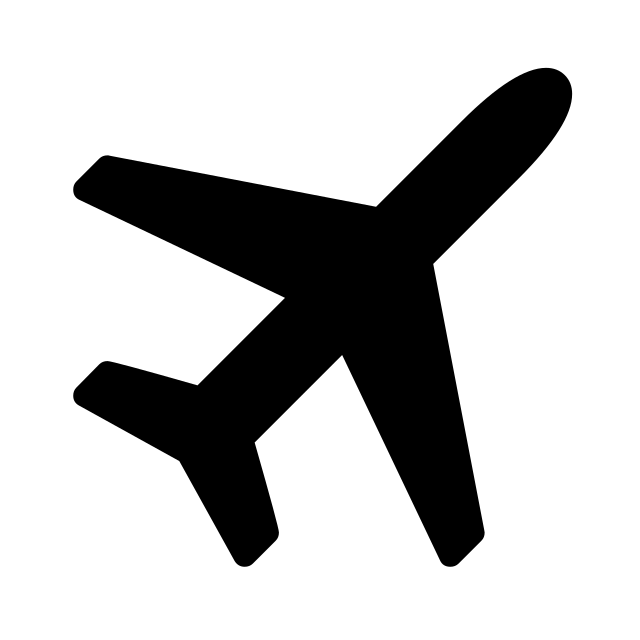
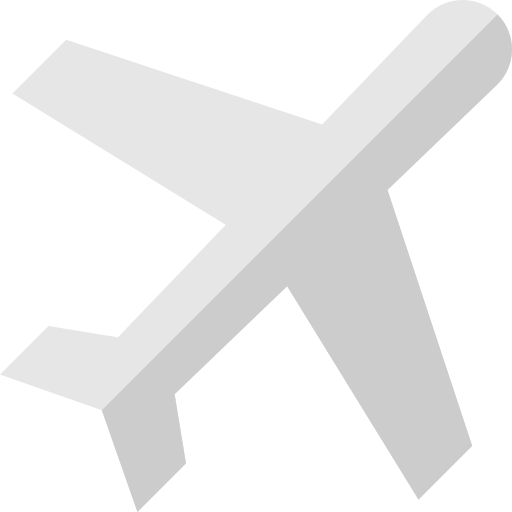
sprite managment

diff --git a/lib/pages/game/components/plane/plane.dart b/lib/pages/game/components/plane/plane.dart
@@ -3,10 +3,11 @@ import 'dart:math';
 import 'package:flame/components.dart';
 import 'package:flame/events.dart';
 import 'package:flutter/material.dart';
+import 'package:touch_dispatch/pages/game/components/plane/plane_sprite.dart';
 
 import '../map/point_entity.dart';
 
-class PlaneEntity extends SpriteComponent with DragCallbacks {
+class PlaneEntity extends PositionComponent with DragCallbacks {
   final double speed = 100;
   late TextComponent flightText;
   late TextComponent heightText;
@@ -17,7 +18,7 @@ class PlaneEntity extends SpriteComponent with DragCallbacks {
   Vector2 get direction => velocity.normalized();
 
   Vector2 dragDelta = Vector2.zero();
-  late Sprite planeSprite;
+  late PlaneSprite planeSprite;
   Vector2 targetPosition = Vector2.zero();
   Vector2 velocity = Vector2.zero();
 
@@ -76,6 +77,8 @@ class PlaneEntity extends SpriteComponent with DragCallbacks {
   Future<void> onLoad() async {
     await super.onLoad();
 
+    add(planeSprite); // Add sprite as a child
+
     size = Vector2(50, 50);
     targetPosition = position;
 
@@ -85,7 +88,7 @@ class PlaneEntity extends SpriteComponent with DragCallbacks {
     flightText = TextComponent(
       text: flightNumber,
       anchor: Anchor.center,
-      position: Vector2(size.x / 2, -20),
+      position: Vector2(0, -20),
       textRenderer: TextPaint(
         style: const TextStyle(
           color: Colors.white,
@@ -99,7 +102,7 @@ class PlaneEntity extends SpriteComponent with DragCallbacks {
     heightText = TextComponent(
       text: 'Height: ${height.toStringAsFixed(0)} ft',
       anchor: Anchor.center,
-      position: Vector2(size.x / 2, size.y + 10),
+      position: Vector2(0, 20),
       textRenderer: TextPaint(
         style: const TextStyle(
           color: Colors.white,
@@ -116,6 +119,7 @@ class PlaneEntity extends SpriteComponent with DragCallbacks {
   @override
   void update(double dt) {
     super.update(dt);
+    planeSprite.updateDirection(velocity);
 
     if (isFollowingPath && pathPoints.isNotEmpty) {
       while (currentPathIndex > 0 && pathPoints.isNotEmpty) {
@@ -129,8 +133,8 @@ class PlaneEntity extends SpriteComponent with DragCallbacks {
 
         if (direction.length > 5) {
           velocity = direction.normalized() * speed * 0.4;
+
           position += velocity * dt / 2;
-          //angle = velocity.angleTo(Vector2(1, 0)); // ← rotate sprite
         } else {
           currentPathIndex++;
         }
@@ -143,7 +147,6 @@ class PlaneEntity extends SpriteComponent with DragCallbacks {
     }
     else if (!isBeingDragged) {
       position += velocity * dt;
-      //angle = velocity.angleTo(Vector2(1, 0)); // ← rotate sprite
       timeUntilDirectionChange -= dt;
       if (timeUntilDirectionChange <= 0) {
         _setRandomVelocity();

diff --git a/lib/pages/game/components/map/game_map.dart b/lib/pages/game/components/map/game_map.dart
@@ -1,32 +1,42 @@
 import 'dart:math';
+import 'dart:ui';
 import 'package:flame/components.dart';
 import 'package:flame/game.dart';
+import 'line_component.dart';
+import 'map_colors.dart';
 import 'runway.dart';
 import 'point_entity.dart';
 
-class GameMap extends PositionComponent with HasGameRef<FlameGame> {
+class GameMap extends PositionComponent with HasGameReference<FlameGame> {
   late Runway runway;
   final List<PointEntity> points = [];
-
   final Random random = Random();
+
   final int minPoints = 12;
   final int maxPoints = 20;
 
   @override
   Future<void> onLoad() async {
     super.onLoad();
-
-    size = gameRef.size; // Use the size of the viewport
+    size = game.size;
     anchor = Anchor.topLeft;
 
-    // Centered runway
-    runway = Runway()
-      ..position = Vector2(size.x / 2, size.y / 2)
-      ..anchor = Anchor.center
-      ..size = Vector2(200, 50);
-    add(runway);
+    _addRivers();
+    _addAerodromeFence();
 
-    // Get unique names
+    _addRunway();
+    _addPoints();
+  }
+
+  void _addRunway() {
+    runway = Runway()
+      ..position = size / 2
+      ..anchor = Anchor.center
+      ..size = Vector2(200, 20);
+    add(runway);
+  }
+
+  void _addPoints() {
     List<String> availableNames = List.from(PointEntity.pointNames)..shuffle();
     int numberOfPoints = minPoints + random.nextInt(maxPoints - minPoints + 1);
 
@@ -36,10 +46,43 @@ class GameMap extends PositionComponent with HasGameRef<FlameGame> {
         random.nextDouble() * size.y,
       );
       final name = availableNames.removeLast();
-
       final point = PointEntity(position: position, name: name);
       points.add(point);
       add(point);
     }
+  }
+
+  void _addRivers() {
+    for (int i = 0; i < 2; i++) {
+      final start = Vector2(
+        random.nextDouble() * size.x,
+        0,
+      );
+      final end = Vector2(
+        random.nextDouble() * size.x,
+        size.y,
+      );
+      final path = LineComponent(
+        begin: start,
+        end: end,
+        paint: Paint()
+          ..color = MapColors.river
+          ..strokeWidth = 3,
+      );
+      add(path);
+    }
+  }
+
+  void _addAerodromeFence() {
+    final padding = 40.0;
+    final fenceRect = RectangleComponent(
+      position: Vector2(padding, padding),
+      size: size - Vector2.all(padding * 2),
+      paint: Paint()
+        ..color = MapColors.fence
+        ..style = PaintingStyle.stroke
+        ..strokeWidth = 1,
+    );
+    add(fenceRect);
   }
 }

diff --git a/lib/pages/game/game_logic/touch_dispatch_game.dart b/lib/pages/game/game_logic/touch_dispatch_game.dart
@@ -4,6 +4,7 @@ import 'dart:async';
 import '../components/plane/plane.dart';
 import '../components/map/game_map.dart';
 import 'package:flutter_bloc/flutter_bloc.dart';
+import '../components/plane/plane_sprite.dart';
 import '../state_managment/game_bloc.dart';
 import '../state_managment/game_event.dart';
 import 'dart:math';
@@ -64,14 +65,14 @@ class TouchDispatchGame extends FlameGame {
 
 
   Future<void> spawnPlane() async {
-    final planeSprite = await loadSprite('plane_colored.png');
+    final planeSprite = await loadSprite('plane.png');
 
     final centerPos = gameMap.size / 2;
 
     final plane = PlaneEntity()
-      ..sprite = planeSprite
+      ..planeSprite = PlaneSprite(sprite: planeSprite)
       ..position = _getRandomCornerPosition()
-      ..size = Vector2(50, 50)
+      ..size = Vector2(20, 20)
       ..flightNumber = 'Flight ${DateTime.now().millisecondsSinceEpoch % 1000}'
       ..height = 10000;
 
@@ -137,6 +138,7 @@ class TouchDispatchGame extends FlameGame {
   void removePlane(PlaneEntity plane) {
     bloc.add(RemovePlaneEvent(plane));
     plane.removeFromParent();
+
   }
 
   void pauseGame() => bloc.add(PauseGameEvent());

diff --git a/lib/pages/game/components/map/line_component.dart b/lib/pages/game/components/map/line_component.dart
@@ -1,0 +1,23 @@
+import 'dart:ui';
+import 'package:flame/components.dart';
+
+class LineComponent extends ShapeComponent {
+  final Vector2 begin;
+  final Vector2 end;
+  final Paint linePaint;
+
+  LineComponent({
+    required this.begin,
+    required this.end,
+    required Paint paint,
+  }) : linePaint = paint {
+    position = Vector2.zero();
+    size = Vector2.zero(); // Not used
+  }
+
+  @override
+  void render(Canvas canvas) {
+    super.render(canvas);
+    canvas.drawLine(begin.toOffset(), end.toOffset(), linePaint);
+  }
+}

diff --git a/lib/pages/game/components/plane/plane_sprite.dart b/lib/pages/game/components/plane/plane_sprite.dart
@@ -1,0 +1,21 @@
+import 'dart:math';
+
+import 'package:flame/components.dart';
+import 'package:flame/game.dart';
+
+class PlaneSprite extends SpriteComponent {
+  PlaneSprite({
+    required Sprite sprite,
+    Vector2? size,
+  }) : super(
+    sprite: sprite,
+    size: size ?? Vector2.all(20),
+    anchor: Anchor.center,
+  );
+  double offset = pi/4;
+  void updateDirection(Vector2 velocity) {
+    if (velocity.length > 1e-2) {
+      angle = -velocity.angleToSigned(Vector2(1, 0)) + offset;
+    }
+  }
+}

diff --git a/lib/pages/start_menu_page/dynamic_backround/dynamic_background.dart b/lib/pages/start_menu_page/dynamic_backround/dynamic_background.dart
@@ -2,7 +2,7 @@ import 'package:animated_flight_paths/animated_flight_paths.dart';
 import 'package:auto_size_text/auto_size_text.dart';
 import 'package:flutter/material.dart';
 import 'package:google_fonts/google_fonts.dart';
-import 'package:touch_dispatch/pages/start_page/dynamic_backround/data/synthwave_colors.dart';
+import 'package:touch_dispatch/pages/start_menu_page/dynamic_backround/data/synthwave_colors.dart';
 
 import 'data/flights.dart';
 

diff --git a/lib/app.dart b/lib/app.dart
@@ -1,12 +1,12 @@
 import 'package:flutter/material.dart';
-import 'pages/start_page/menu_page.dart';
+import 'pages/start_menu_page/start_menu_page.dart';
 
 class MyApp extends StatelessWidget {
   @override
   Widget build(BuildContext context) {
     return MaterialApp(
       debugShowCheckedModeBanner: false,
-      home: MenuPage(), // Start with the menu page
+      home: StartMenuPage(), // Start with the menu page
     );
   }
 }

diff --git a/lib/pages/game/components/map/runway.dart b/lib/pages/game/components/map/runway.dart
@@ -7,7 +7,7 @@ class Runway extends SpriteComponent with HasGameRef {
   Future<void> onLoad() async {
     super.onLoad(); // Ensure the component is properly initialized
     sprite = await gameRef.loadSprite('runway.png');
-    size = Vector2(200, 50);
+    size = Vector2(200, 20);
     position = gameRef.size / 2 - Vector2(100, 25); // Center the runway
   }
 

diff --git a/lib/pages/start_menu_page/dynamic_backround/widgets/label.dart b/lib/pages/start_menu_page/dynamic_backround/widgets/label.dart
@@ -1,7 +1,7 @@
 
 import 'package:flutter/material.dart';
 import 'package:google_fonts/google_fonts.dart';
-import 'package:touch_dispatch/pages/start_page/dynamic_backround/data/synthwave_colors.dart';
+import 'package:touch_dispatch/pages/start_menu_page/dynamic_backround/data/synthwave_colors.dart';
 
 
 class Label extends StatelessWidget {

diff --git a/lib/pages/start_menu_page/start_menu_page.dart b/lib/pages/start_menu_page/start_menu_page.dart
@@ -3,7 +3,7 @@ import 'package:touch_dispatch/pages/level_selection_menu/level_selection_menu.d
 
 import 'dynamic_backround/dynamic_background.dart'; // adjust if needed
 
-class MenuPage extends StatelessWidget {
+class StartMenuPage extends StatelessWidget {
   @override
   Widget build(BuildContext context) {
     return Scaffold(

diff --git a/lib/pages/game/components/map/map_colors.dart b/lib/pages/game/components/map/map_colors.dart
@@ -1,0 +1,8 @@
+import 'dart:ui';
+
+class MapColors {
+  static const river = Color(0xFF172A45);      // Deep blue
+  static const water = Color(0xFF42A5F5);      // Light blue
+  static const road = Color(0xFF616161);       // Asphalt gray
+  static const fence = Color(0xFF373535);      // Light gray
+}
